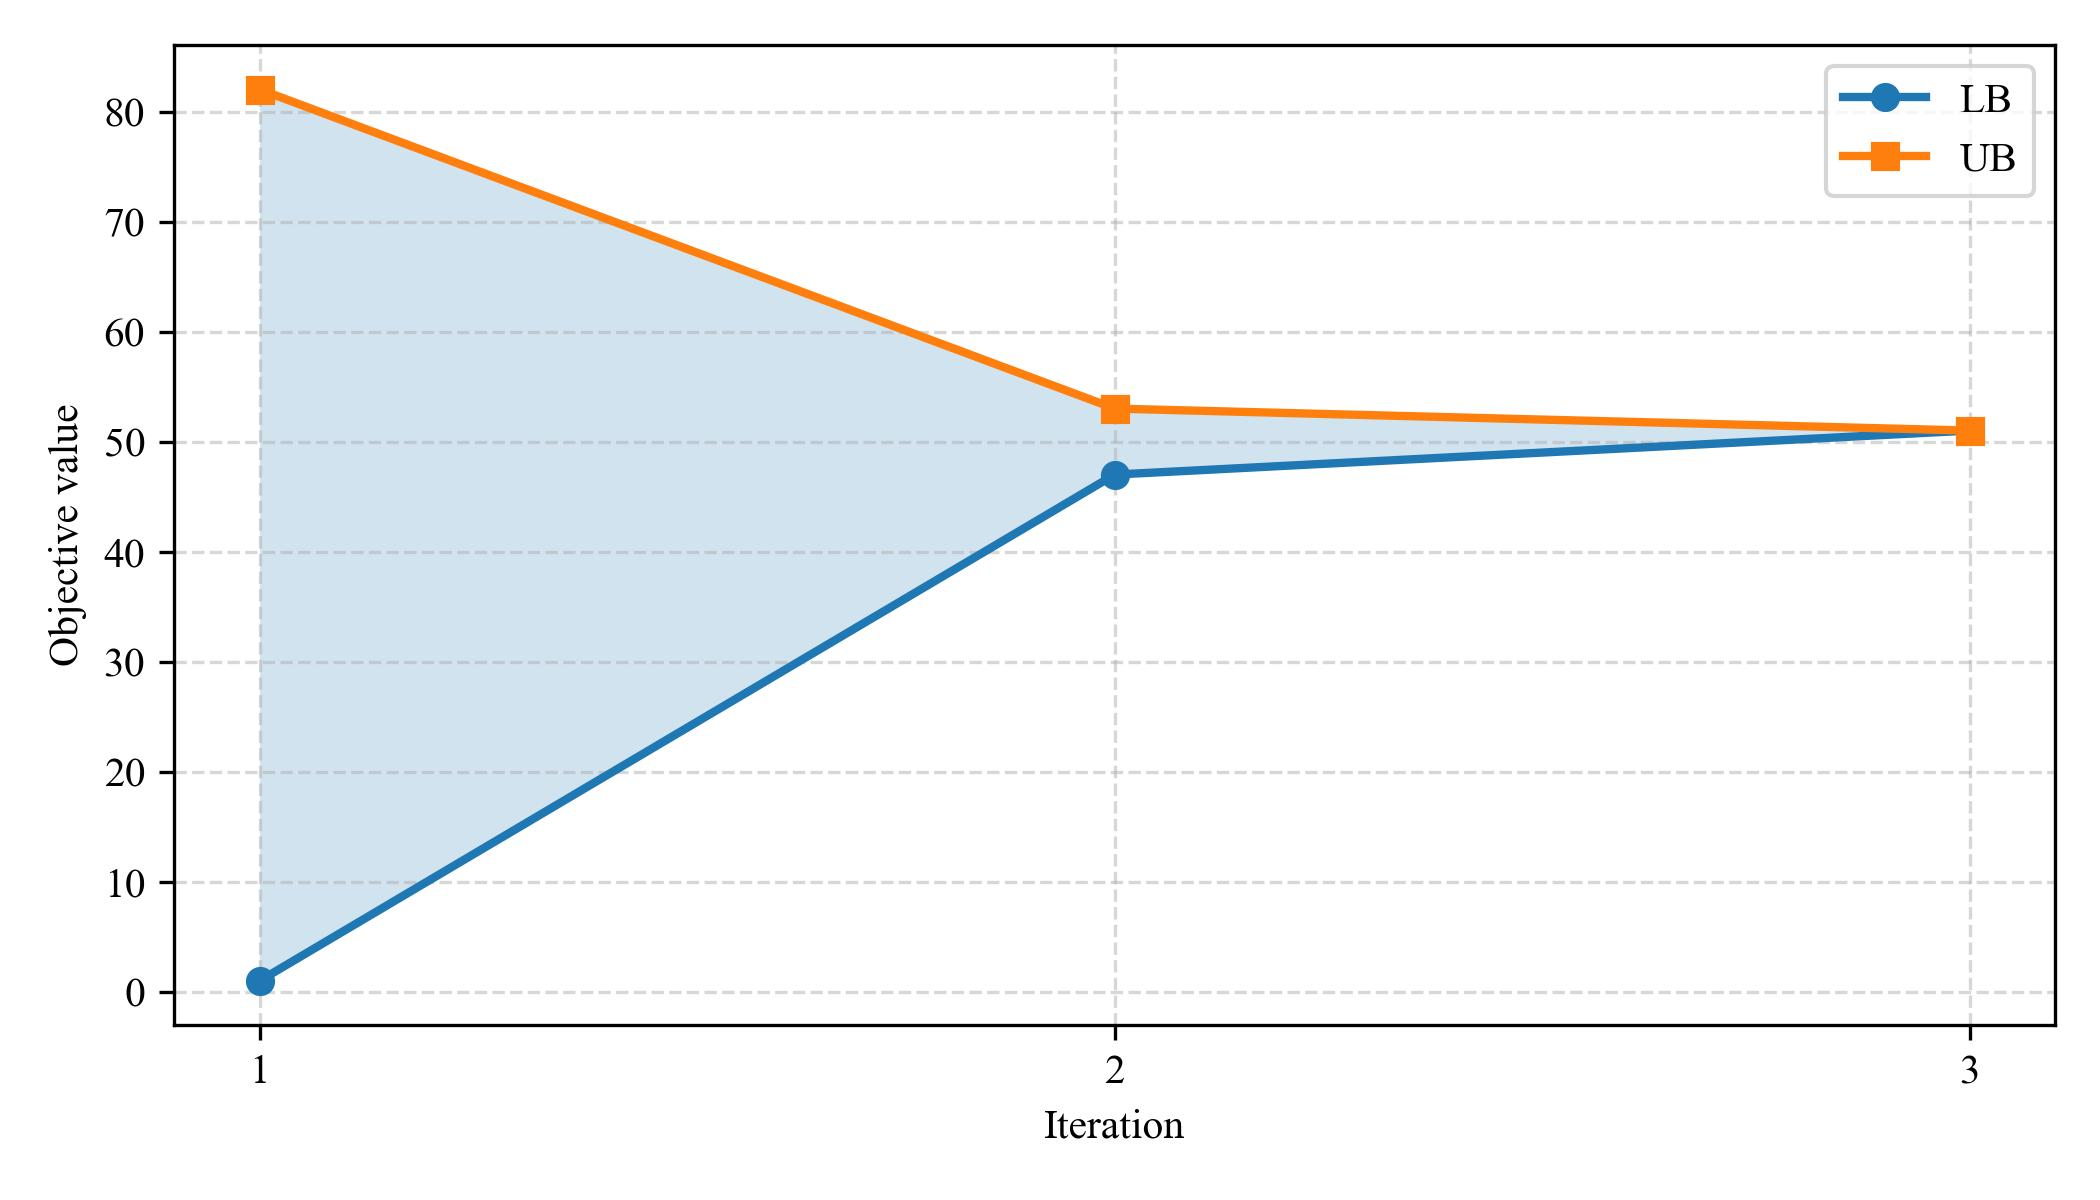
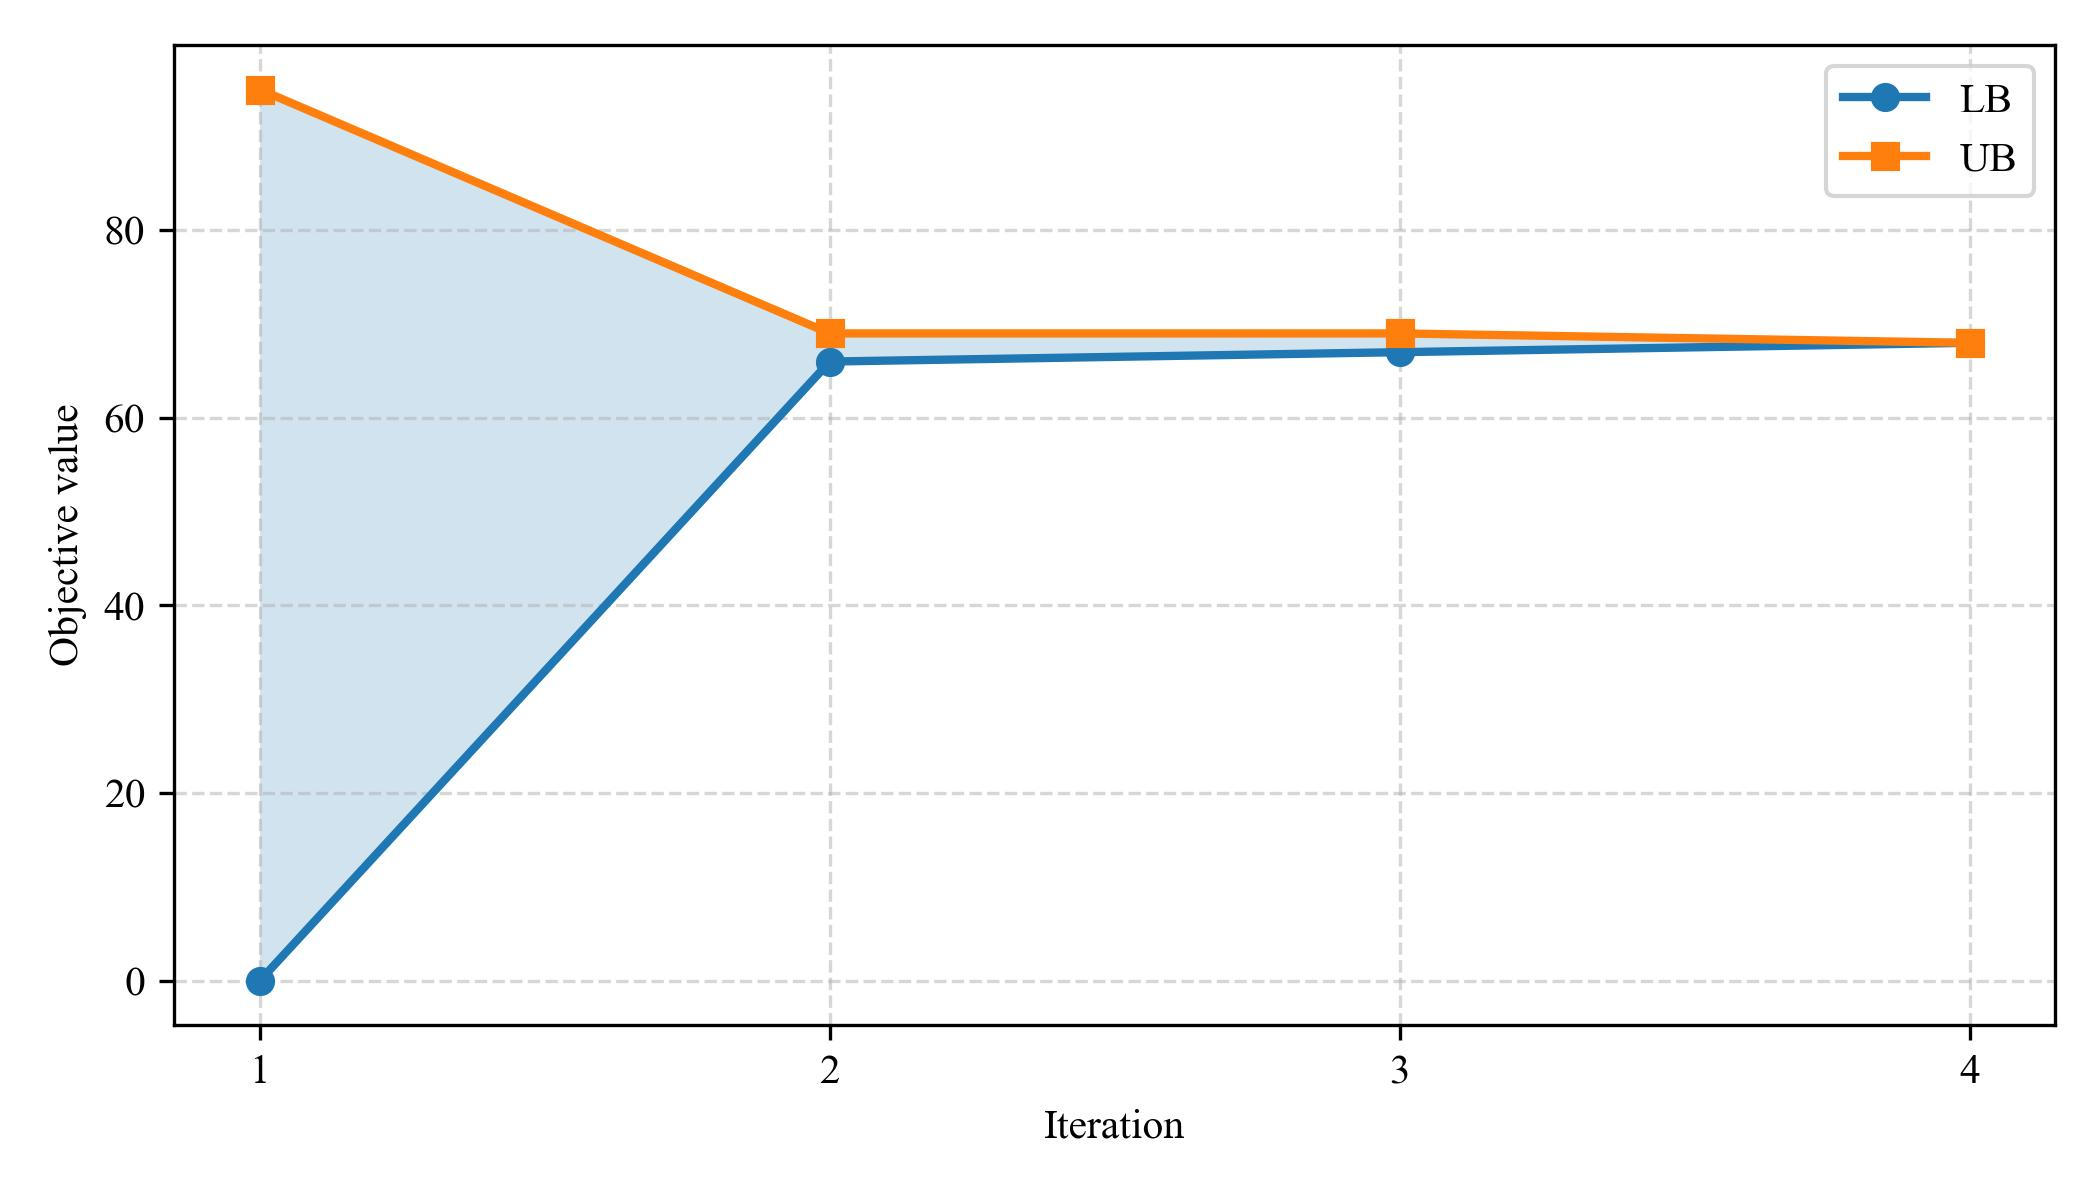
change

diff --git a/ccgrun.py b/ccgrun.py
@@ -14,7 +14,7 @@ from generate_mode_meta import generate_mode_meta_from_mm
 from pathlib import Path
 import json
 import time
-
+import ccg 
  
 
 
@@ -25,10 +25,7 @@ import time
 # =========================================================
 # ✅ 在这里直接改参数（然后点运行）
 # =========================================================
- 
- 
-
-mm_path = r'instances\j30.mm\j301_2.mm'
+mm_path = r'instances\j20.mm\j209_6.mm'
 mode_meta_csv, deviations, cost = generate_mode_meta_from_mm(mm_path, seed=42)
 
 #保存
@@ -37,7 +34,7 @@ CONFIG = {
     "mm_path": mm_path  ,
 
     # DDU 预算不确定集参数
-    "Gamma":2,
+    "Gamma":10,
 
     # 工期货币化成本 e
     "e_overhead":1,
@@ -124,9 +121,9 @@ def main():
     if str(script_dir) not in sys.path:
         sys.path.insert(0, str(script_dir))
 
-    import ccg as ccg_mod  # ✅ 直接导入 ccg
+     
 
-    inst = ccg_mod.build_instance_from_psplib_json(
+    inst = ccg.build_instance_from_psplib_json(
         data=data,
         Gamma=Gamma,
         e_overhead=e_overhead,
@@ -137,7 +134,7 @@ def main():
         use_flow=use_flow,
         mode_meta_csv=mode_meta_csv,
     )
-    solver = ccg_mod.Variant2Solver(
+    solver = ccg.Variant2Solver(
         inst=inst,
         tol=tol,
         max_iter=max_iter,

diff --git a/bendersrun.py b/bendersrun.py
@@ -44,7 +44,7 @@ from generate_mode_meta import generate_mode_meta_from_mm
 import csv
 
 if __name__ == "__main__":
-    test_instance = r'instances\j30.mm\j301_2.mm'
+    test_instance = r'instances\j20.mm\j209_6.mm'
      
     csv_path, deviations, cost = generate_mode_meta_from_mm(test_instance, seed=42)
     # 从 CSV 读取 deviations 和 cost，jobnr 减 1
@@ -72,4 +72,4 @@ if __name__ == "__main__":
  
     
     e_over = 1
-    solve(test_instance, 2, 600, max_durational_deviations=deviations, cost=cost, e_over=e_over, print_log=True)
+    solve(test_instance, 10, 600, max_durational_deviations=deviations, cost=cost, e_over=e_over, print_log=True)
